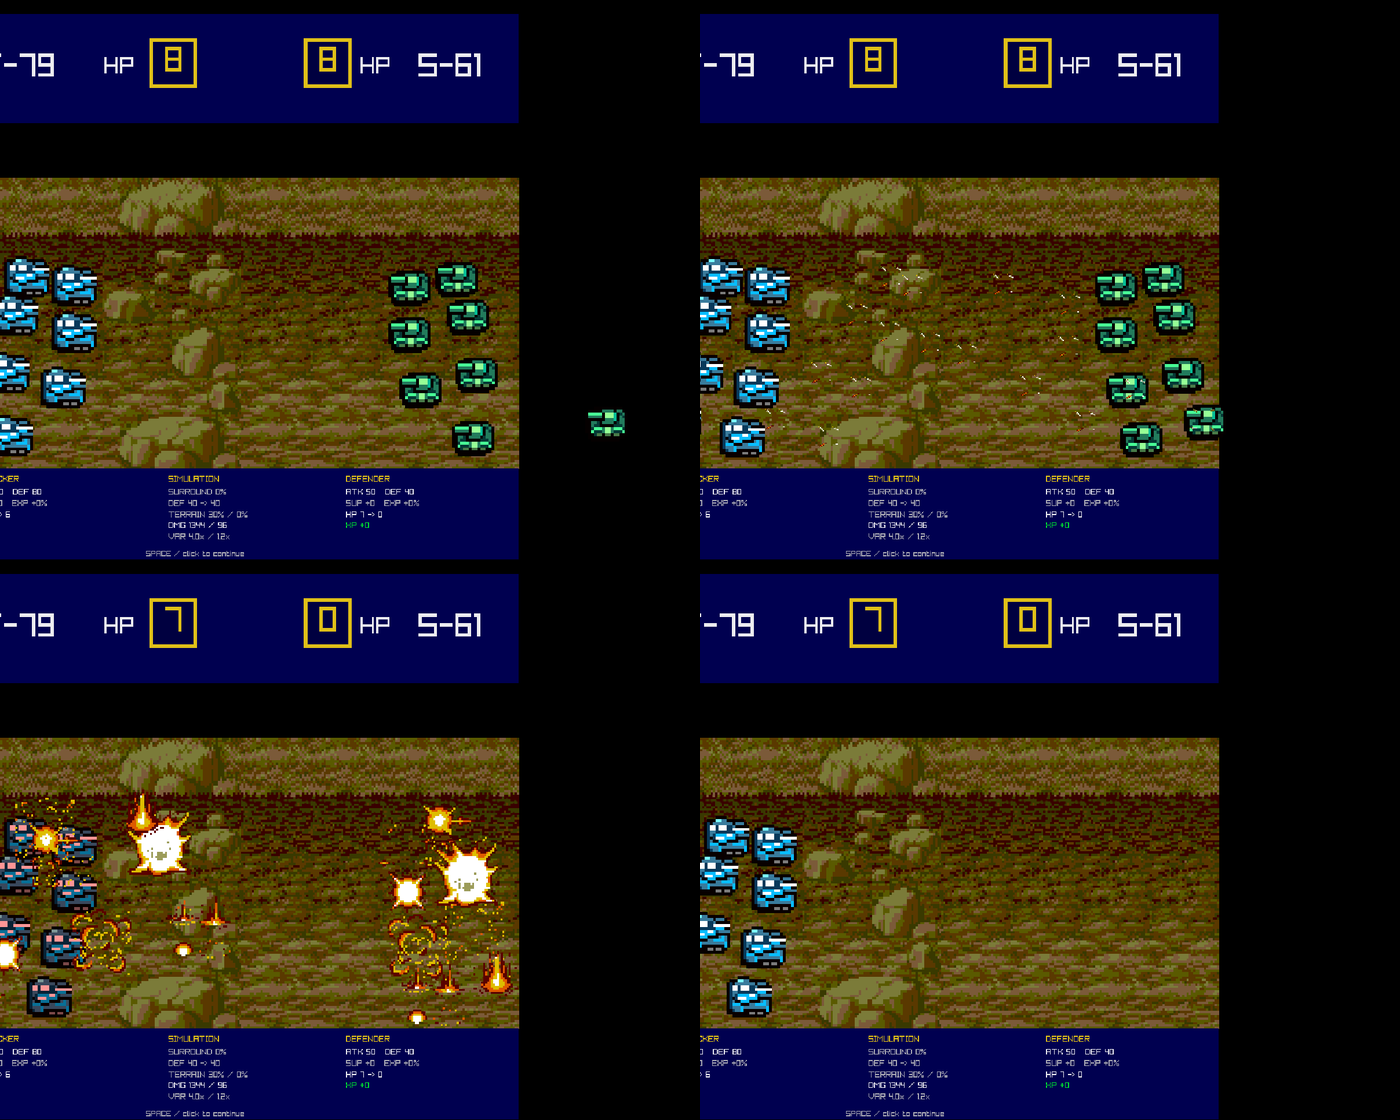
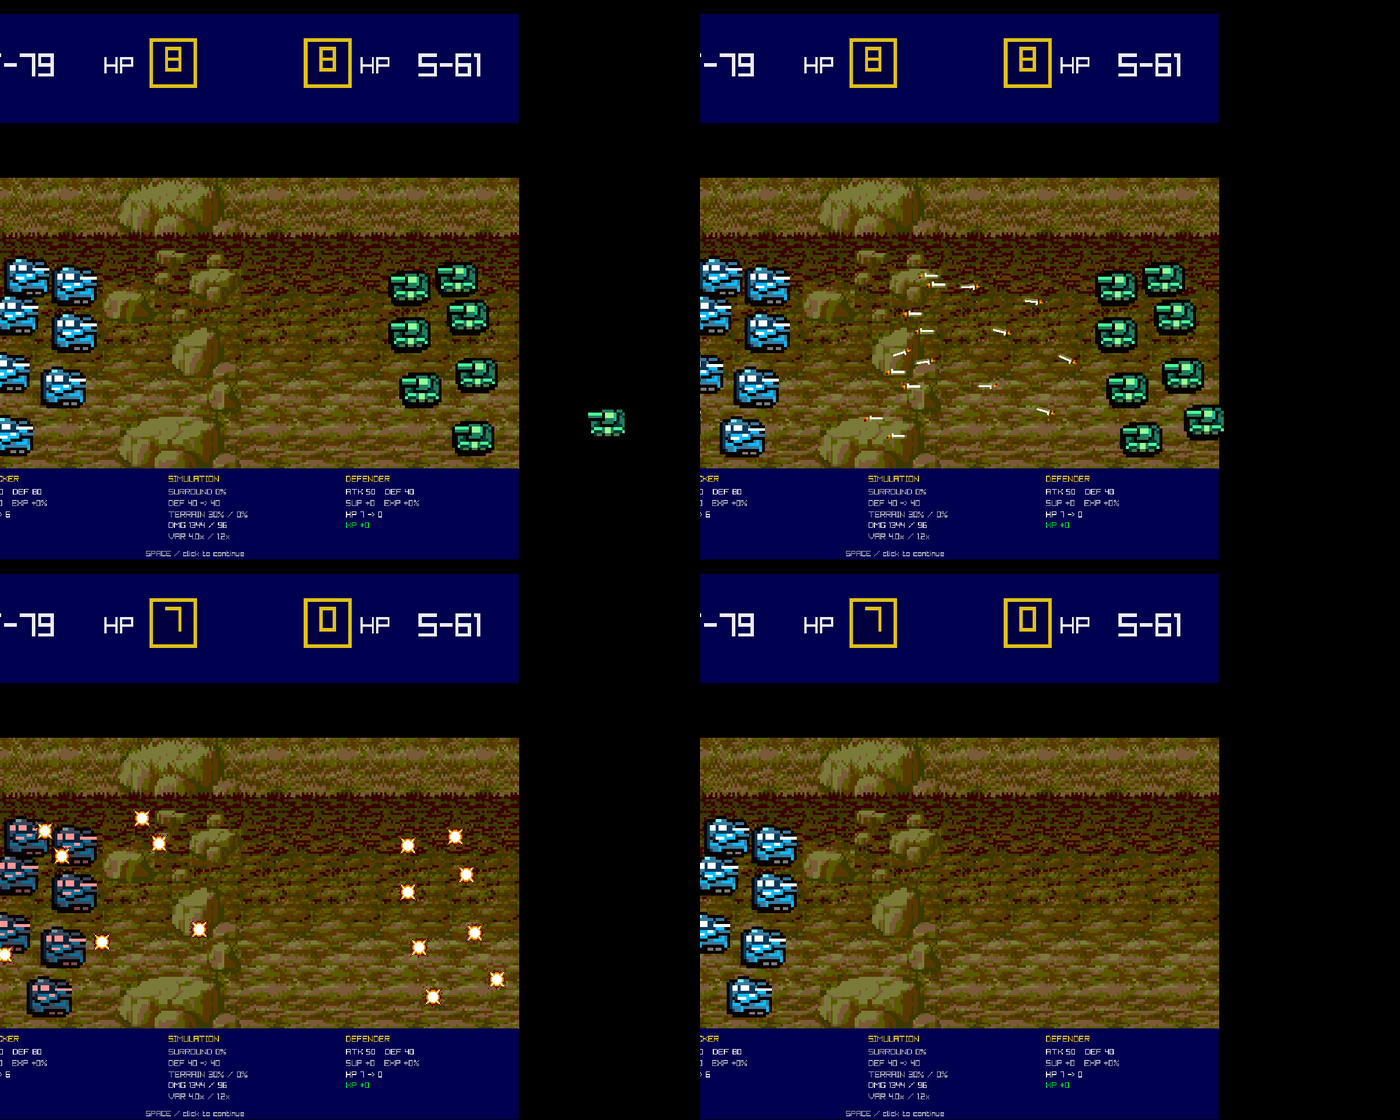
combat vfx: vfx_00 missile cells, vfx_07 explosion at 0.5, slower fire
Use cell (0,0) of the 2x2 vfx_00 sheet as the projectile, rotated along the flight path, and vfx_07 at half scale for every explosion. Double the shooting window to 0.70 s and delay impact/explosions to 2.95 s. Refresh previews and release.

diff --git a/port/src/main.cpp b/port/src/main.cpp
@@ -483,10 +483,11 @@ static void drawHpBar(float x, float y, float w, float h, int hp0, int hp1, floa
 }
 
 static void drawExplosion(float x, float y, float r, float phase) {
-    int fi = std::clamp((int)(phase * 3.0f), 0, 15);
-    if (gVfx[fi].id) {
-        float s = r * 2.6f;
-        DrawTexturePro(gVfx[fi], {0, 0, (float)gVfx[fi].width, (float)gVfx[fi].height},
+    // Tuned VFX: a single explosion frame, drawn at 0.5 of the old size.
+    (void)phase;
+    if (gVfx[7].id) {
+        float s = r * 1.3f;
+        DrawTexturePro(gVfx[7], {0, 0, (float)gVfx[7].width, (float)gVfx[7].height},
                        {x - s / 2, y - s / 2, s, s}, {0, 0}, 0, WHITE);
         return;
     }
@@ -507,6 +508,16 @@ static void drawExplosion(float x, float y, float r, float phase) {
                    {x + std::cos(a) * r1, y + std::sin(a) * r1},
                    3, Color{255, 120, 20, 255});
     }
+}
+
+// vfx_00 is a 2x2 sheet; cell (0,0) is a missile pointing right.
+static void drawProjectile(float x, float y, float s, float angle) {
+    if (!gVfx[0].id) {
+        DrawCircleV({x, y}, s * 0.18f, ORANGE);
+        return;
+    }
+    Rectangle src{0, 0, gVfx[0].width * 0.5f, gVfx[0].height * 0.5f};
+    DrawTexturePro(gVfx[0], src, {x, y, s, s}, {s / 2, s / 2}, angle, WHITE);
 }
 
 static void drawEffect(Texture2D& tex, float x, float y, float s, float rot, Color tint) {
@@ -571,11 +582,14 @@ static void drawCombatScreen(const CombatView& v, Texture2D playerTex, Texture2D
     };
 
     float t = v.t;
+    // Shooting is deliberately twice as slow as before (0.35 -> 0.70 s).
+    float fireT = 2.15f, fireDur = 0.70f;
+    float impactT = fireT + fireDur + 0.10f;
     int nA0 = std::clamp(v.hpA0 + 1, 0, 8);   // initial vehicles
     int nD0 = std::clamp(v.hpD0 + 1, 0, 8);
     int nA1 = (v.hpA1 > 0) ? std::clamp(v.hpA1 + 1, 0, 8) : 0;  // survivors
     int nD1 = (v.hpD1 > 0) ? std::clamp(v.hpD1 + 1, 0, 8) : 0;
-    bool impact = t > 2.45f;
+    bool impact = t > impactT;
     hpBox(0.335f, impact ? nA1 : nA0);
     hpBox(0.613f, impact ? nD1 : nD0);
 
@@ -607,14 +621,13 @@ static void drawCombatScreen(const CombatView& v, Texture2D playerTex, Texture2D
         drawPanel(v.panelB, dxPanel, pan);
     }
 
-    float fireT = 2.15f, fireDur = 0.35f;
+    Color flashA = (t > impactT && t < impactT + 0.50f) ? Color{255, 150, 150, 255} : WHITE;
+    Color flashD = flashA;
     float rk = (t > fireT && t < fireT + fireDur)
                    ? std::sin((t - fireT) / fireDur * 3.14159f)
                    : 0.0f;
     float recoilA = -us * 0.20f * rk;
     float recoilD = us * 0.20f * rk;
-    Color flashA = (t > 2.45f && t < 2.95f) ? Color{255, 150, 150, 255} : WHITE;
-    Color flashD = flashA;
 
     // original materialise rhythm: arrival at 0.05 + i*0.235 s
     auto drawArmy = [&](float px, int count, int type, bool mirror,
@@ -691,8 +704,9 @@ static void drawCombatScreen(const CombatView& v, Texture2D playerTex, Texture2D
                 float k = std::clamp((t - st) / fireDur, 0.0f, 1.0f);
                 Vector2 p = {from[i].x + nudge + (to[i].x - from[i].x - nudge) * k,
                              from[i].y + (to[i].y - from[i].y) * k};
-                if (gVfx[2].id) drawEffect(gVfx[2], p.x, p.y, us * 0.85f, 0.0f, WHITE);
-                else DrawCircleV(p, us * 0.16f, ORANGE);
+                float ang = std::atan2(to[i].y - from[i].y,
+                                       to[i].x - from[i].x) * 57.29578f;
+                drawProjectile(p.x, p.y, us * 0.85f, ang);
                 if (k < 0.22f) {
                     Vector2 m = {from[i].x + nudge, from[i].y};
                     if (gVfx[1].id) drawEffect(gVfx[1], m.x, m.y, us * 1.0f, 0.0f, WHITE);
@@ -704,8 +718,8 @@ static void drawCombatScreen(const CombatView& v, Texture2D playerTex, Texture2D
         fire(fromD, toD, nD0, recoilD);
     }
 
-    if (t > 2.45f && t < 3.30f) {
-        float e = (t - 2.45f) * 7.0f;
+    if (t > impactT && t < impactT + 0.85f) {
+        float e = (t - impactT) * 7.0f;
         for (int i = 0; i < nA0; ++i)
             drawExplosion(toA[i].x, toA[i].y, us * 0.70f, e + i * 0.35f);
         for (int i = 0; i < nD0; ++i)
@@ -1062,8 +1076,8 @@ int main(int argc, char** argv) {
             drawCombatScreen(gCv, playerTex, enemyTex);
             EndDrawing();
             if (IsKeyPressed(KEY_SPACE) || IsMouseButtonPressed(MOUSE_BUTTON_LEFT)) {
-                if (gCv.t < 3.60f) {
-                    gCv.t = 3.60f;      // first input skips to the result
+                if (gCv.t < 3.90f) {
+                    gCv.t = 3.90f;      // first input skips to the result
                 } else {
                     gCv.active = false;
                     startNextCombat();

diff --git a/port/README.md b/port/README.md
@@ -53,12 +53,12 @@ Headless AI demo (prints 3 rounds of enemy actions, including ranged fire):
 port/build/nectaris.exe assets assets/maps/all_units_test.json --demo
 ```
 
-Combat screenshot (seconds = animation phase: `1.2` ride-in, `2.3` projectiles,
-`2.7` explosions, `3.6` final report; last argument `0` = direct, `1` = ranged):
+Combat screenshot (seconds = animation phase: `1.2` ride-in, `2.5` projectiles,
+`3.0` explosions, `4.0` final report; last argument `0` = direct, `1` = ranged):
 
 ```powershell
-port/build/nectaris.exe assets assets/maps/all_units_test.json --combatshot direct.png 2.7 0
-port/build/nectaris.exe assets assets/maps/all_units_test.json --combatshot ranged.png 2.7 1
+port/build/nectaris.exe assets assets/maps/all_units_test.json --combatshot direct.png 3.0 0
+port/build/nectaris.exe assets assets/maps/all_units_test.json --combatshot ranged.png 3.0 1
 ```
 
 ## Combat simulation
@@ -233,11 +233,13 @@ Every resolved attack switches to a battle screen modeled on the original:
   playfield); direct battles stay edge-to-edge.
 * **ride-in**: vehicles roll in from the screen edges to their staggered 2×4
   formation slots at the original `0.05 + i×0.235 s` beats.
-* **simultaneous fire**: both sides fire at once, using one projectile texture
-  and one explosion texture for every unit. The killed vehicle slots
-  (`finalCount .. initialCount-1`) are targeted exactly, so their explosions
-  land on the right coordinates; all remaining shots scatter deterministically
-  across the opposing panel. HP boxes drop to the surviving vehicle count.
+* **simultaneous fire**: both sides fire at once, using `vfx_00` cell (0,0)
+  (the right-pointing missile) for every projectile and `vfx_07` at half scale
+  for every explosion. The killed vehicle slots (`finalCount ..
+  initialCount-1`) are targeted exactly, so their explosions land on the right
+  coordinates; all remaining shots scatter deterministically across the
+  opposing panel. Shooting is 0.70 s long (twice the old 0.35 s); HP boxes drop
+  to the surviving vehicle count at impact.
 * **persistent report (no disappearing numbers)**: the bottom bar stays visible
   during and after the animation and shows the simulation inputs and resolve:
   * **attacker**: attack / own defence, support bonus, experience bonus,
